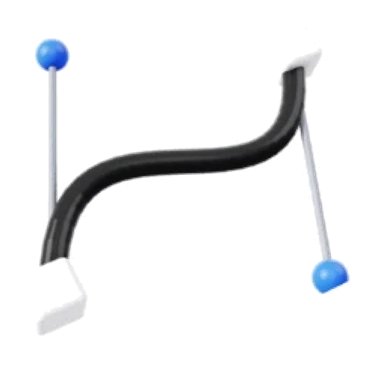
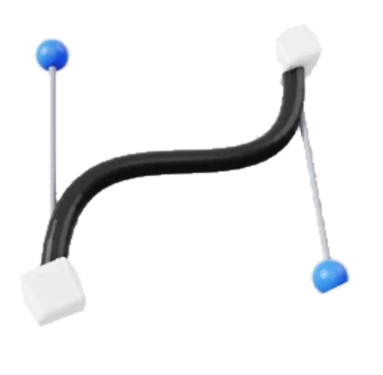
Чистые 3D-предметы без дымки, плашка фактов по макету
Предметы заново вырезаны из макета: тень и серая дымка убраны, сами
объекты без изменений, теперь непрозрачные. Плашка: радиус 35 и поля 50 px
макета, размеры цифр, текста и кружков как на референсе.

diff --git a/src/components/sections/hero.tsx b/src/components/sections/hero.tsx
@@ -379,9 +379,10 @@ function Facts({ compact = false }: { compact?: boolean }) {
     <div
       className={cn(
         "flex border-[1.5px] border-ink/85",
-        compact ? "flex-col gap-4 rounded-[28px] px-6 py-5" : "h-full items-center justify-evenly"
+        compact ? "flex-col gap-4 rounded-[22px] px-6 py-5" : "h-full items-center justify-between"
       )}
-      style={compact ? undefined : { borderRadius: u(2.9) }}
+      // радиус и поля по макету: 35 и 50 px при высоте 113
+      style={compact ? undefined : { borderRadius: u(1.75), paddingInline: u(2.5) }}
     >
       {facts.map((f, i) => (
         <div
@@ -394,11 +395,11 @@ function Facts({ compact = false }: { compact?: boolean }) {
           style={compact ? { gap: "14px" } : { gap: u(1), paddingLeft: i > 0 ? u(2.4) : 0, height: u(2.6) }}
         >
           {f.avatars ? (
-            <NicheAvatars size={compact ? "40px" : u(2.75)} />
+            <NicheAvatars size={compact ? "40px" : u(2.35)} />
           ) : (
             <span
               className="font-display leading-none font-extrabold tracking-[-0.02em]"
-              style={{ fontSize: compact ? "2.4rem" : u(2.55) }}
+              style={{ fontSize: compact ? "2.4rem" : u(2.27) }}
             >
               {f.big}
               {f.plus && <span className="text-red">+</span>}
@@ -411,7 +412,7 @@ function Facts({ compact = false }: { compact?: boolean }) {
             >
               {f.label}
             </span>
-            <span className="tracking-[-0.01em] text-ink/85" style={{ fontSize: compact ? "0.95rem" : u(0.98) }}>
+            <span className="tracking-[-0.01em] text-ink/85" style={{ fontSize: compact ? "0.95rem" : u(0.91) }}>
               {f.text}
             </span>
           </span>
